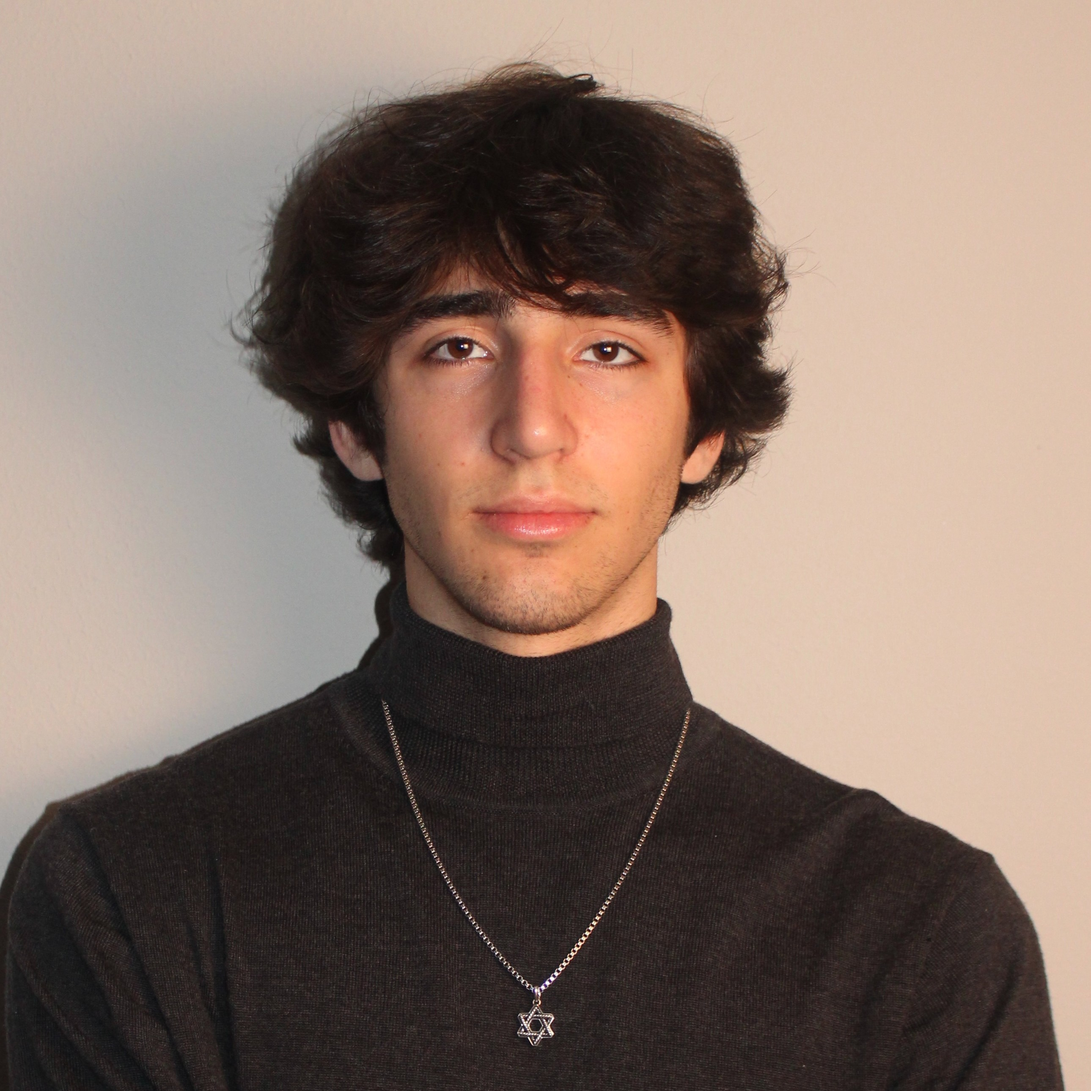
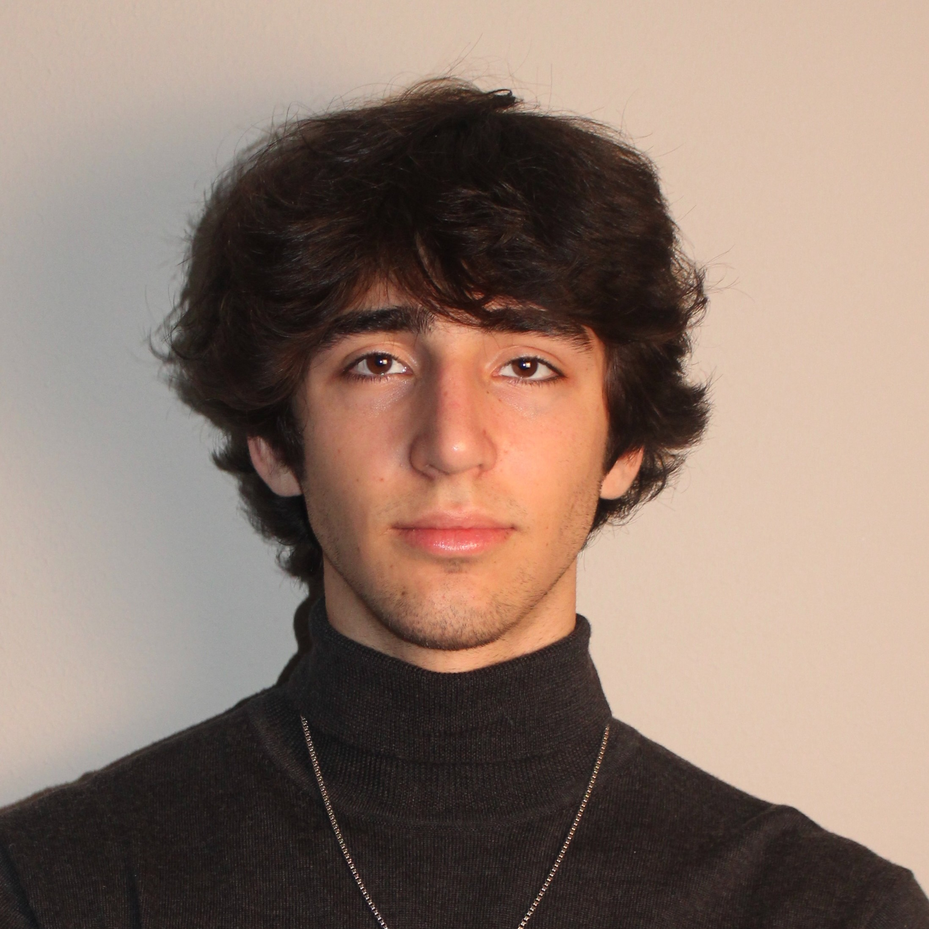
About section WIP

diff --git a/index.html b/index.html
@@ -40,7 +40,7 @@
       <div class="hero-framer">
       <img
         class="header-img"
-        src="img/Professional-Crop.png"
+        src="./img/Professional-Crop.png"
         alt="Professional headshot of Joshua Gingold"
       />
       <!-- Give heavy bold weight -->
@@ -48,10 +48,18 @@
     </div>
     </header>
 
+    <div class="break-design">
+      <p>Different</p>
+      <p>Transforming Ideas to the Web</p>
+      <p>Intiutive</p>
+    </div>
+    
     <!-- Section 2  -->
-    <section id="About">
+    <section class="grey-section" id="About">
       <!-- Make uppercase -->
-      <h2>About</h2>
+      <div class="full-about-framer">
+      <div class="about-framer">
+      <h2 class="h2-el">About</h2>
       <p class="about-info">
         Welcome, my name is Joshua Gingold. I am certified in Full Stack
         Development from University of Austin Texas, and I am currently a
@@ -59,39 +67,42 @@
         you will soon be well acquainted with who I am, and what I have to offer
         professionally.
       </p>
-      <!-- IMAGES OF CERTIFICATION -->
-      <!-- <img
-        class="UT-img"
-        src=""
-        alt="Full Stack Development certification from University of Texas Austin"
-      /> -->
-      <!-- PUT UDEMY CERTICICATIONS IN A GRID SEPERATE FROM UT -->
-      <img
-        class="udemy-img"
-        src="img/Udemy-CSS-HTML-Certification.jpg"
-        alt="HTML and CSS certification from Udemy Academy"
-      />
-      <!-- <img
-        class="udemy-img"
-        src=""
-        alt="Java Script certification from Udemy Academy"
-      /> -->
+    </div>
+    <img
+    class="outside-img"
+    src="./img/Outside.png"
+    alt="Image of Joshua Gingold gazing out from a beautiful mountain side">
+  </div>
     </section>
 
+    
     <!-- Section 3  -->
     <section id="Resume">
       <h2>Portfolio</h2>
       <!-- Insert images of past work, 
         with links to seperate pages talking 
         about your experience with what that work -->
-    </section>
+
+        <!-- IMAGES OF CERTIFICATION -->
+        <!-- <img
+          class="UT-img"
+          src=""
+          alt="Full Stack Development certification from University of Texas Austin"
+        /> -->
+        <!-- PUT UDEMY CERTICICATIONS IN A GRID SEPERATE FROM UT -->
+        <img
+          class="udemy-img"
+          src="./img/Udemy-CSS-HTML-Certification.jpg"
+          alt="HTML and CSS certification from Udemy Academy"
+        />
+        <!-- <img
+          class="udemy-img"
+          src=""
+          alt="Java Script certification from Udemy Academy"
+        /> -->
+      </section>
 
     <!-- Give light font weight -->
-    <div class="break-design">
-      <p>Different</p>
-      <p>Transforming Ideas to the Web</p>
-      <p>Intiutive</p>
-    </div>
 
     <!-- Section 3  -->
     <!-- Come up with an Idea for here. (Make it like a portfolio, but an interesting showcase) -->

diff --git a/assets/style.css b/assets/style.css
@@ -13,6 +13,7 @@
 .home-nav {
   font-size: 3.6rem;
   font-weight: 800;
+  text-transform: uppercase;
 }
 
 .home-nav:link,
@@ -25,7 +26,7 @@
 .home-nav:hover,
 .home-nav:active {
   color: #222222ea;
-  text-shadow: -1rem 0.6rem 2.4rem rgba(0, 0, 0, 0.15);
+  text-shadow: -1rem 0.6rem 2.4rem rgba(0, 0, 0, 0.1);
 }
 
 .nav-framer {
@@ -50,11 +51,11 @@
 .nav-style:hover,
 .nav-style:active {
   color: #f1a208;
-  text-shadow: 0.8rem 0.2rem 1rem rgba(0, 0, 0, 0.2);
+  text-shadow: 0.8rem 0.2rem 1rem rgba(0, 0, 0, 0.1);
 }
 
 .header-img {
-  width: 20vw;
+  width: 35vw;
 }
 
 .udemy-img {
@@ -79,4 +80,63 @@
 
   font-weight: 700;
   font-size: 1.4rem;
+}
+
+/* Break Design */
+
+.break-design {
+  font-size: 1.2rem;
+  font-weight: 500;
+  display: flex;
+  flex-wrap: nowrap;
+  justify-content: space-between;
+  align-items: center;
+  margin-top: 55px;
+  padding-left: 100px;
+  padding-right: 100px;
+}
+
+/* About */
+
+.outside-img {
+  width: 30vw;
+  justify-self: center;
+}
+
+.grey-section {
+  margin-top: 55px;
+  padding-left: 5%;
+  padding-right: 5%;
+}
+
+.full-about-framer {
+  display: grid;
+  grid-template-columns: 1fr 1fr;
+  gap: 12px;
+  padding: 35px;
+}
+
+.about-framer {
+  display: flex;
+  flex-direction: column;
+}
+
+.h2-el {
+  font-size: 8rem;
+  font-weight: 600;
+  letter-spacing: -3.5px;
+
+  padding: 2rem;
+}
+
+.about-info {
+  font-size: 2.2rem;
+  line-height: 26px;
+  letter-spacing: -0.5px;
+
+  padding: 0.8rem;
+}
+
+.outside-img {
+  border-radius: 5px;
 }

diff --git a/assets/queries.css b/assets/queries.css
@@ -1,4 +1,5 @@
 @media (max-width: 21em) {
+  /* Section 1 */
   .full-nav-framer {
     flex-direction: column;
     row-gap: 1.2rem;
@@ -13,8 +14,12 @@
     font-size: 1.2rem;
   }
 
+  .hero-framer {
+    row-gap: 5px;
+  }
+
   .header-img {
-    width: 40vw;
+    width: 45vw;
   }
 
   .header-brief {
@@ -24,5 +29,40 @@
     line-height: 1.1rem;
     padding: 0;
     padding-bottom: 0.4rem;
+  }
+
+  /* Design Break */
+  .break-design {
+    font-size: 1rem;
+    padding-left: 10px;
+    padding-right: 10px;
+  }
+
+  /* Section 2 */
+  .outside-img {
+    width: 75vw;
+    justify-self: center;
+  }
+
+  .full-about-framer {
+    display: grid;
+    grid-template-columns: 1fr;
+  }
+
+  .about-framer {
+    display: flex;
+    flex-direction: column;
+  }
+
+  .h2-el {
+    text-align: center;
+    font-size: 7.2rem;
+    padding: 1rem;
+  }
+
+  .about-info {
+    font-size: 1.82rem;
+    line-height: 24px;
+    letter-spacing: -0.6px;
   }
 }

diff --git a/assets/general.css b/assets/general.css
@@ -94,10 +94,10 @@ body {
   font-weight: 500;
 }
 
-#Home {
-  /* background-color: #c2edff; */
-}
-
 a {
   text-decoration: none;
 }
+
+/* #About {
+  background-color: #74c1fb;
+} */
